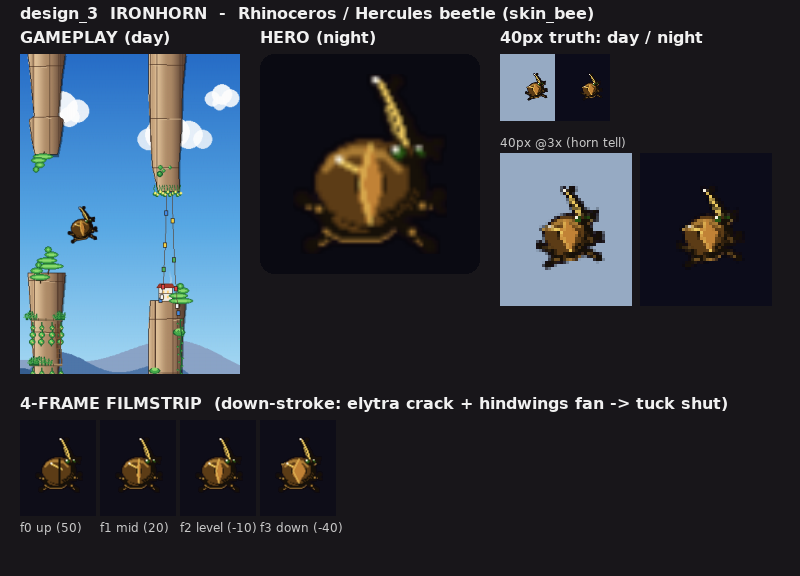
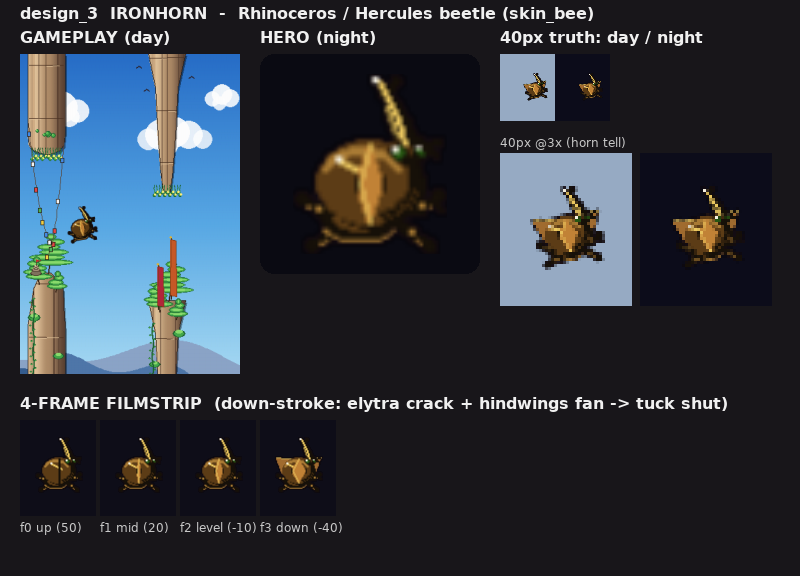
bug/bee design_3 IRONHORN R2
Dominant forked cephalic horn, demoted antennae, restaged hindwing fan +
gold-rimmed suture crack, crisp lacquer specular, richer bronze palette,
chunkier rim-lit legs.

Claude-Session: https://claude.ai/code/session_01K6KPJsdtoYoDR2za2Jqnmo

diff --git a/tools/bee_candidates/design_3.py b/tools/bee_candidates/design_3.py
@@ -55,13 +55,13 @@ def _hindwing(surf, side, o):
     reads as emerging from a cracked-open shell — not a belly flipper."""
     if o <= 0:
         return
-    root_a = (BCX + side * 2, 34)
-    root_b = (BCX + side * 4, 37)
-    tip    = (BCX + side * int(17 * o), 33 + int(4 * o))
-    mid    = (BCX + side * int(12 * o), 41 + int(5 * o))
-    pygame.draw.polygon(surf, (*AMBER, 165), [root_a, tip, mid, root_b])
-    pygame.draw.line(surf, (120, 80, 30, 200), root_a, mid, 1)     # vein
-    pygame.draw.line(surf, (*GOLD, 190), root_a, tip, 1)           # lit edge
+    root_a = (BCX + side * 2, 33)
+    root_b = (BCX + side * 5, 38)
+    tip    = (BCX + side * int(22 * o), 35 - int(4 * o))           # up and out
+    mid    = (BCX + side * int(16 * o), 43 + int(4 * o))           # lower trail
+    pygame.draw.polygon(surf, (*AMBER, 190), [root_a, tip, mid, root_b])
+    pygame.draw.line(surf, (120, 80, 30, 210), root_a, mid, 1)     # vein
+    pygame.draw.line(surf, (*GOLD, 210), root_a, tip, 1)           # lit edge
 
 
 def _leg(surf, hip, knee, foot, spur=False):
